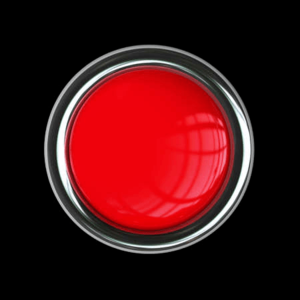
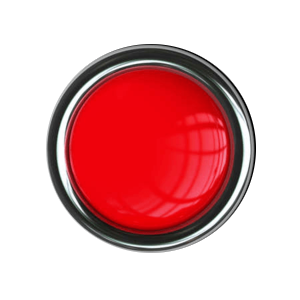
fix:Rezise

diff --git a/proyecto/Taximetro/int_grafica.py b/proyecto/Taximetro/int_grafica.py
@@ -1,6 +1,7 @@
 from tkinter import *
 import time
-
+from PIL import Image
+from PIL import ImageTk
 
 DEVICE_FILE = "/dev/ttyUSB0" #check nombre /dev/usb
 
@@ -23,7 +24,7 @@ def set_interface():
     screen_width=screen_ancho/2000
     screen_height=screen_largo/1000
 
-    rect=frame.create_rectangle(screen_width*1350,250,70,80,width=15,outline="grey")
+    rect=frame.create_rectangle(screen_width*1350,screen_height*250,screen_width*70,screen_height*80,width=screen_width*15,outline="grey")
     frame.move(rect, screen_width*450, screen_height*400)
 
     Label(frame, text= "Tarifa", fg="red", bg="black", font="times 24 bold").place(x=screen_width*200, y=screen_height*200)
@@ -40,10 +41,10 @@ def set_interface():
     monto.place(x=screen_width*500, y=screen_height*200)
 
     hora=Label(frame,font=("times",15,"bold"))
-    hora.place(x=screen_width*40, y=screen_height*880)
+    hora.place(x=screen_width*50, y=screen_height*840)
 
     fecha=Label(frame,font=("times",15,"bold"))
-    fecha.place(x=screen_width*40, y=screen_height*840)
+    fecha.place(x=screen_width*50, y=screen_height*800)
 
     tarifa = Label(frame,text= "$0000",fg="red", bg="black", font="times 24 bold")
     tarifa.place(x=screen_width*500,y=screen_height*300)
@@ -60,17 +61,19 @@ def set_interface():
     state_stop = Label(frame,text= "STOP",fg="white", bg="black", font="times 14 bold")
     state_stop.place(x=screen_width*1150,y=screen_height*550)
 
-    frame.image_tax= PhotoImage(file="./Img/taxi.png",width=int(screen_width*298), height=int(screen_height*300))
-    Label(frame, image=frame.image_tax, bg = 'black').place(x=screen_width*1570,y=screen_height*650)
+    image = Image.open("./Img/taxi.png")
+    resize_image = image.resize((int(200*screen_width), int(200*screen_height)))
+    frame.image_tax = ImageTk.PhotoImage(resize_image)
+    Label(frame, image=frame.image_tax, bg = 'black').place(x=screen_width*1570,y=screen_height*660)
 
-    frame.btn_start = PhotoImage(file="./Img/bRojo.png",width=int(screen_width*298), height=int(screen_height*300))
-    Label(frame, image=frame.btn_start, text='Start', font="times 20 bold",bg = 'black', compound='center').place(x=screen_width*502,y=screen_height*650)
+    image = Image.open("./Img/bRojo.png")
+    resize_image = image.resize((int(225*screen_width), int(220*screen_height)))
+    frame.btn_start = ImageTk.PhotoImage(resize_image)
+    Label(frame, image=frame.btn_start, text='Start', font="times 20 bold",bg = 'black', compound='center').place(x=screen_width*502,y=screen_height*655)
 
-    frame.btn_stop = PhotoImage(file="Img/bRojo.png",width=int(screen_width*298), height=int(screen_height*300))
-    Label(frame, image=frame.btn_stop, text='Stop', font="times 20 bold",bg = 'black', compound='center').place(x=screen_width*802,y=screen_height*650)
+    Label(frame, image=frame.btn_start, text='Stop', font="times 20 bold",bg = 'black', compound='center').place(x=screen_width*802,y=screen_height*655)
 
-    frame.btn_reset = PhotoImage(file="Img/bRojo.png",width=int(screen_width*298), height=int(screen_height*300))
-    Label(frame, image=frame.btn_reset, text='Reset', font="times 20 bold",bg = 'black', compound='center').place(x=screen_width*1102,y=screen_height*650)
+    Label(frame, image=frame.btn_start, text='Reset', font="times 20 bold",bg = 'black', compound='center').place(x=screen_width*1102,y=screen_height*655)
 
 def times_fecha():
 
